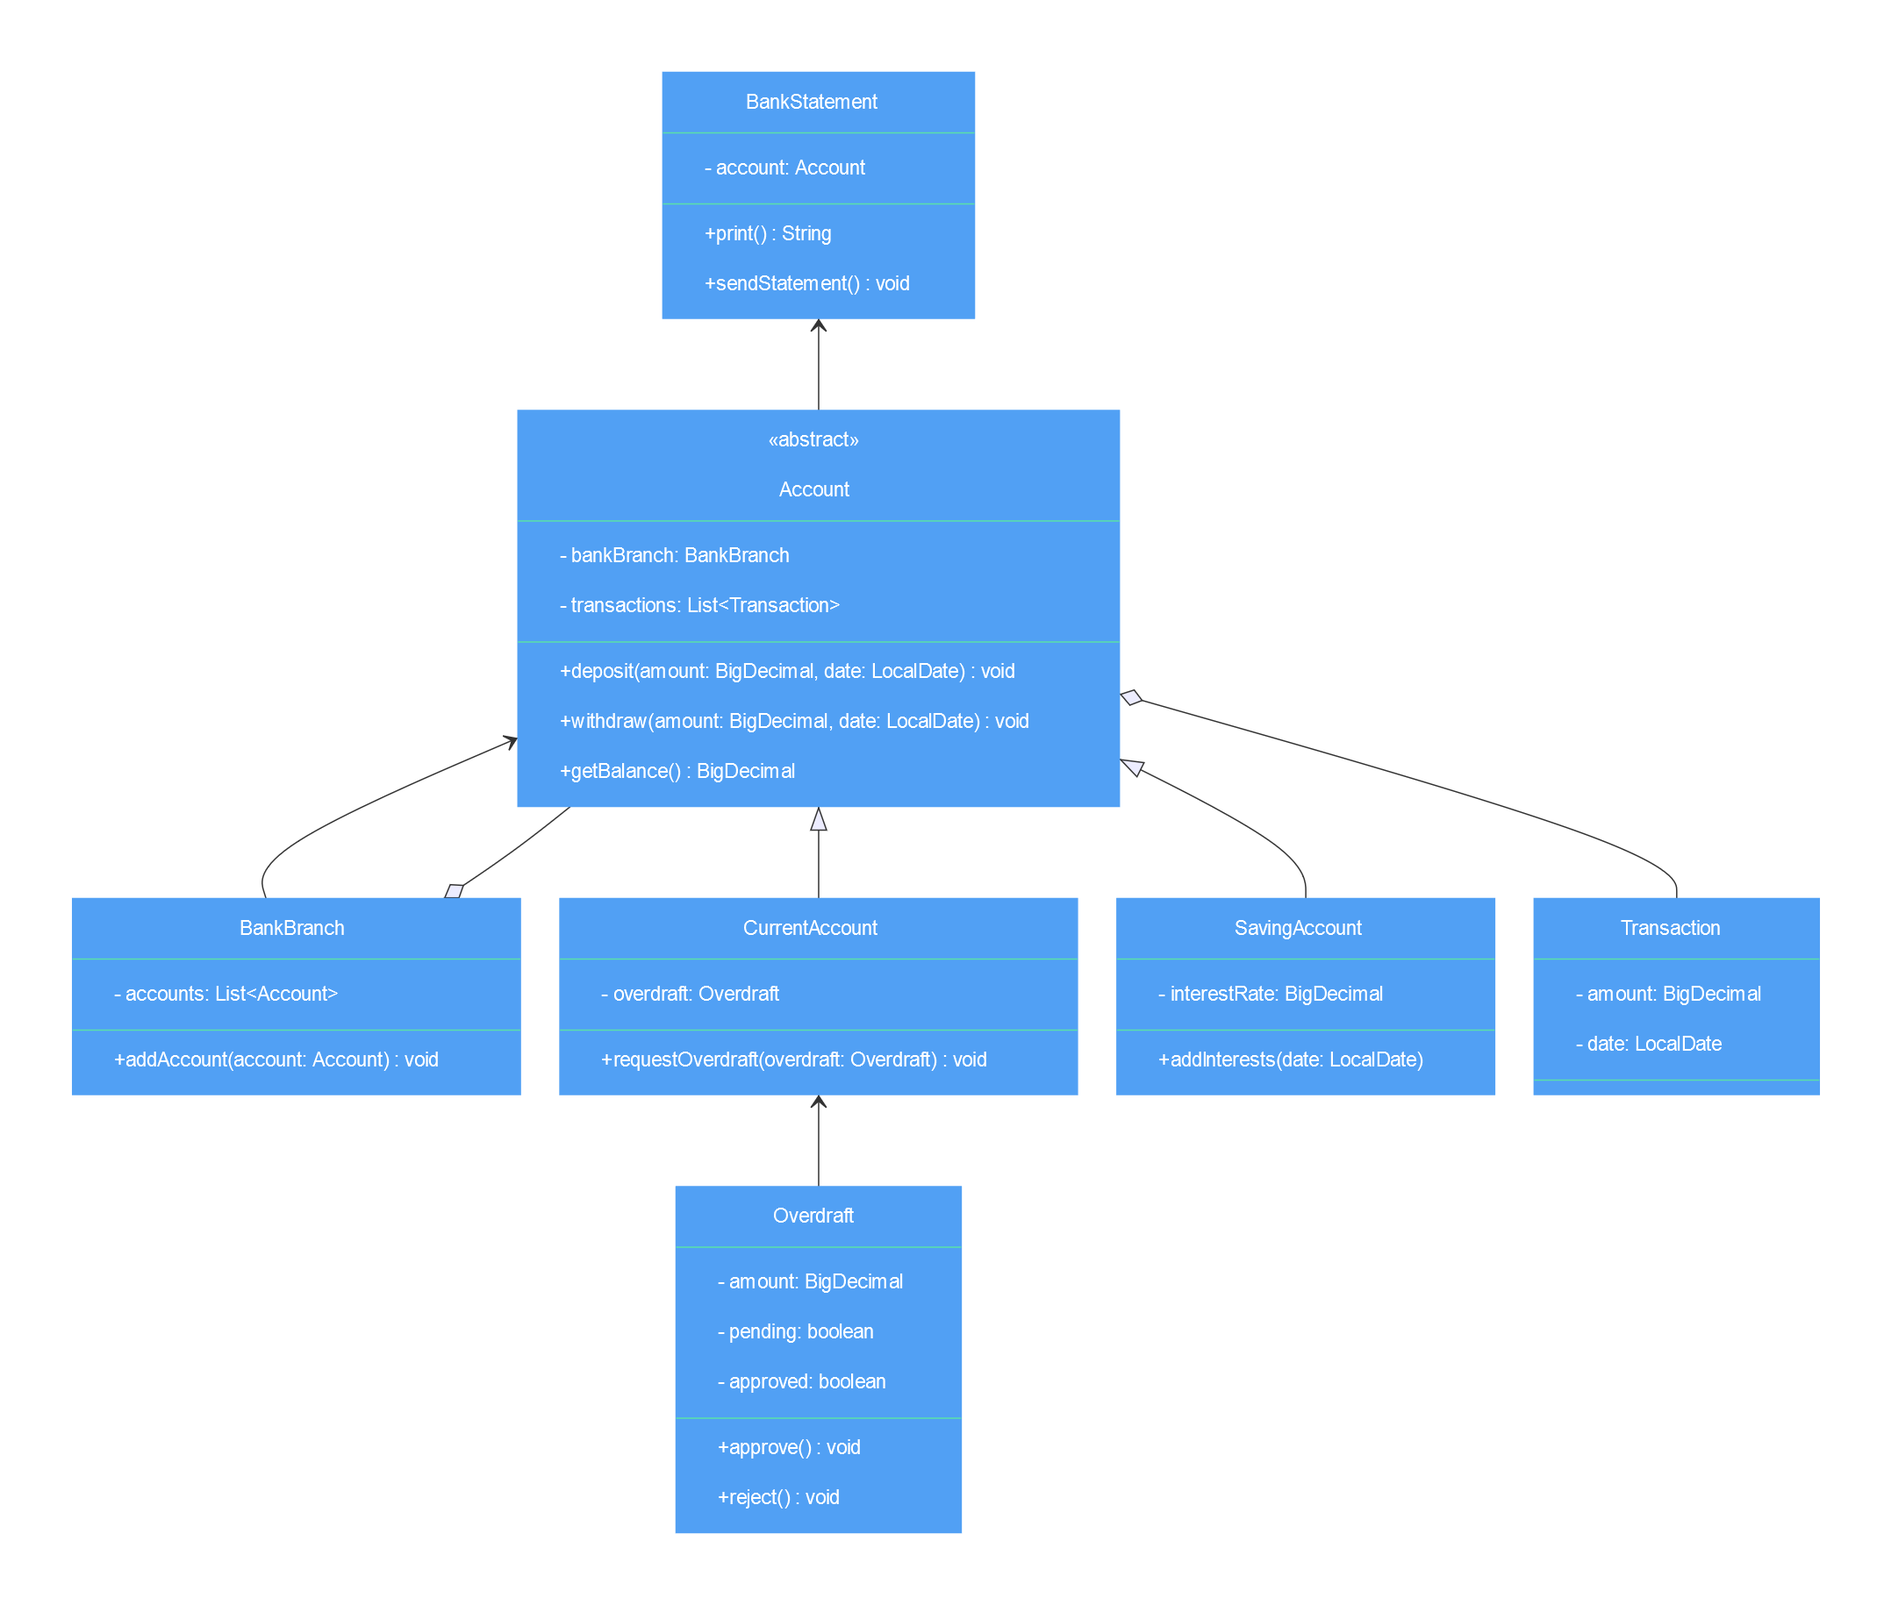
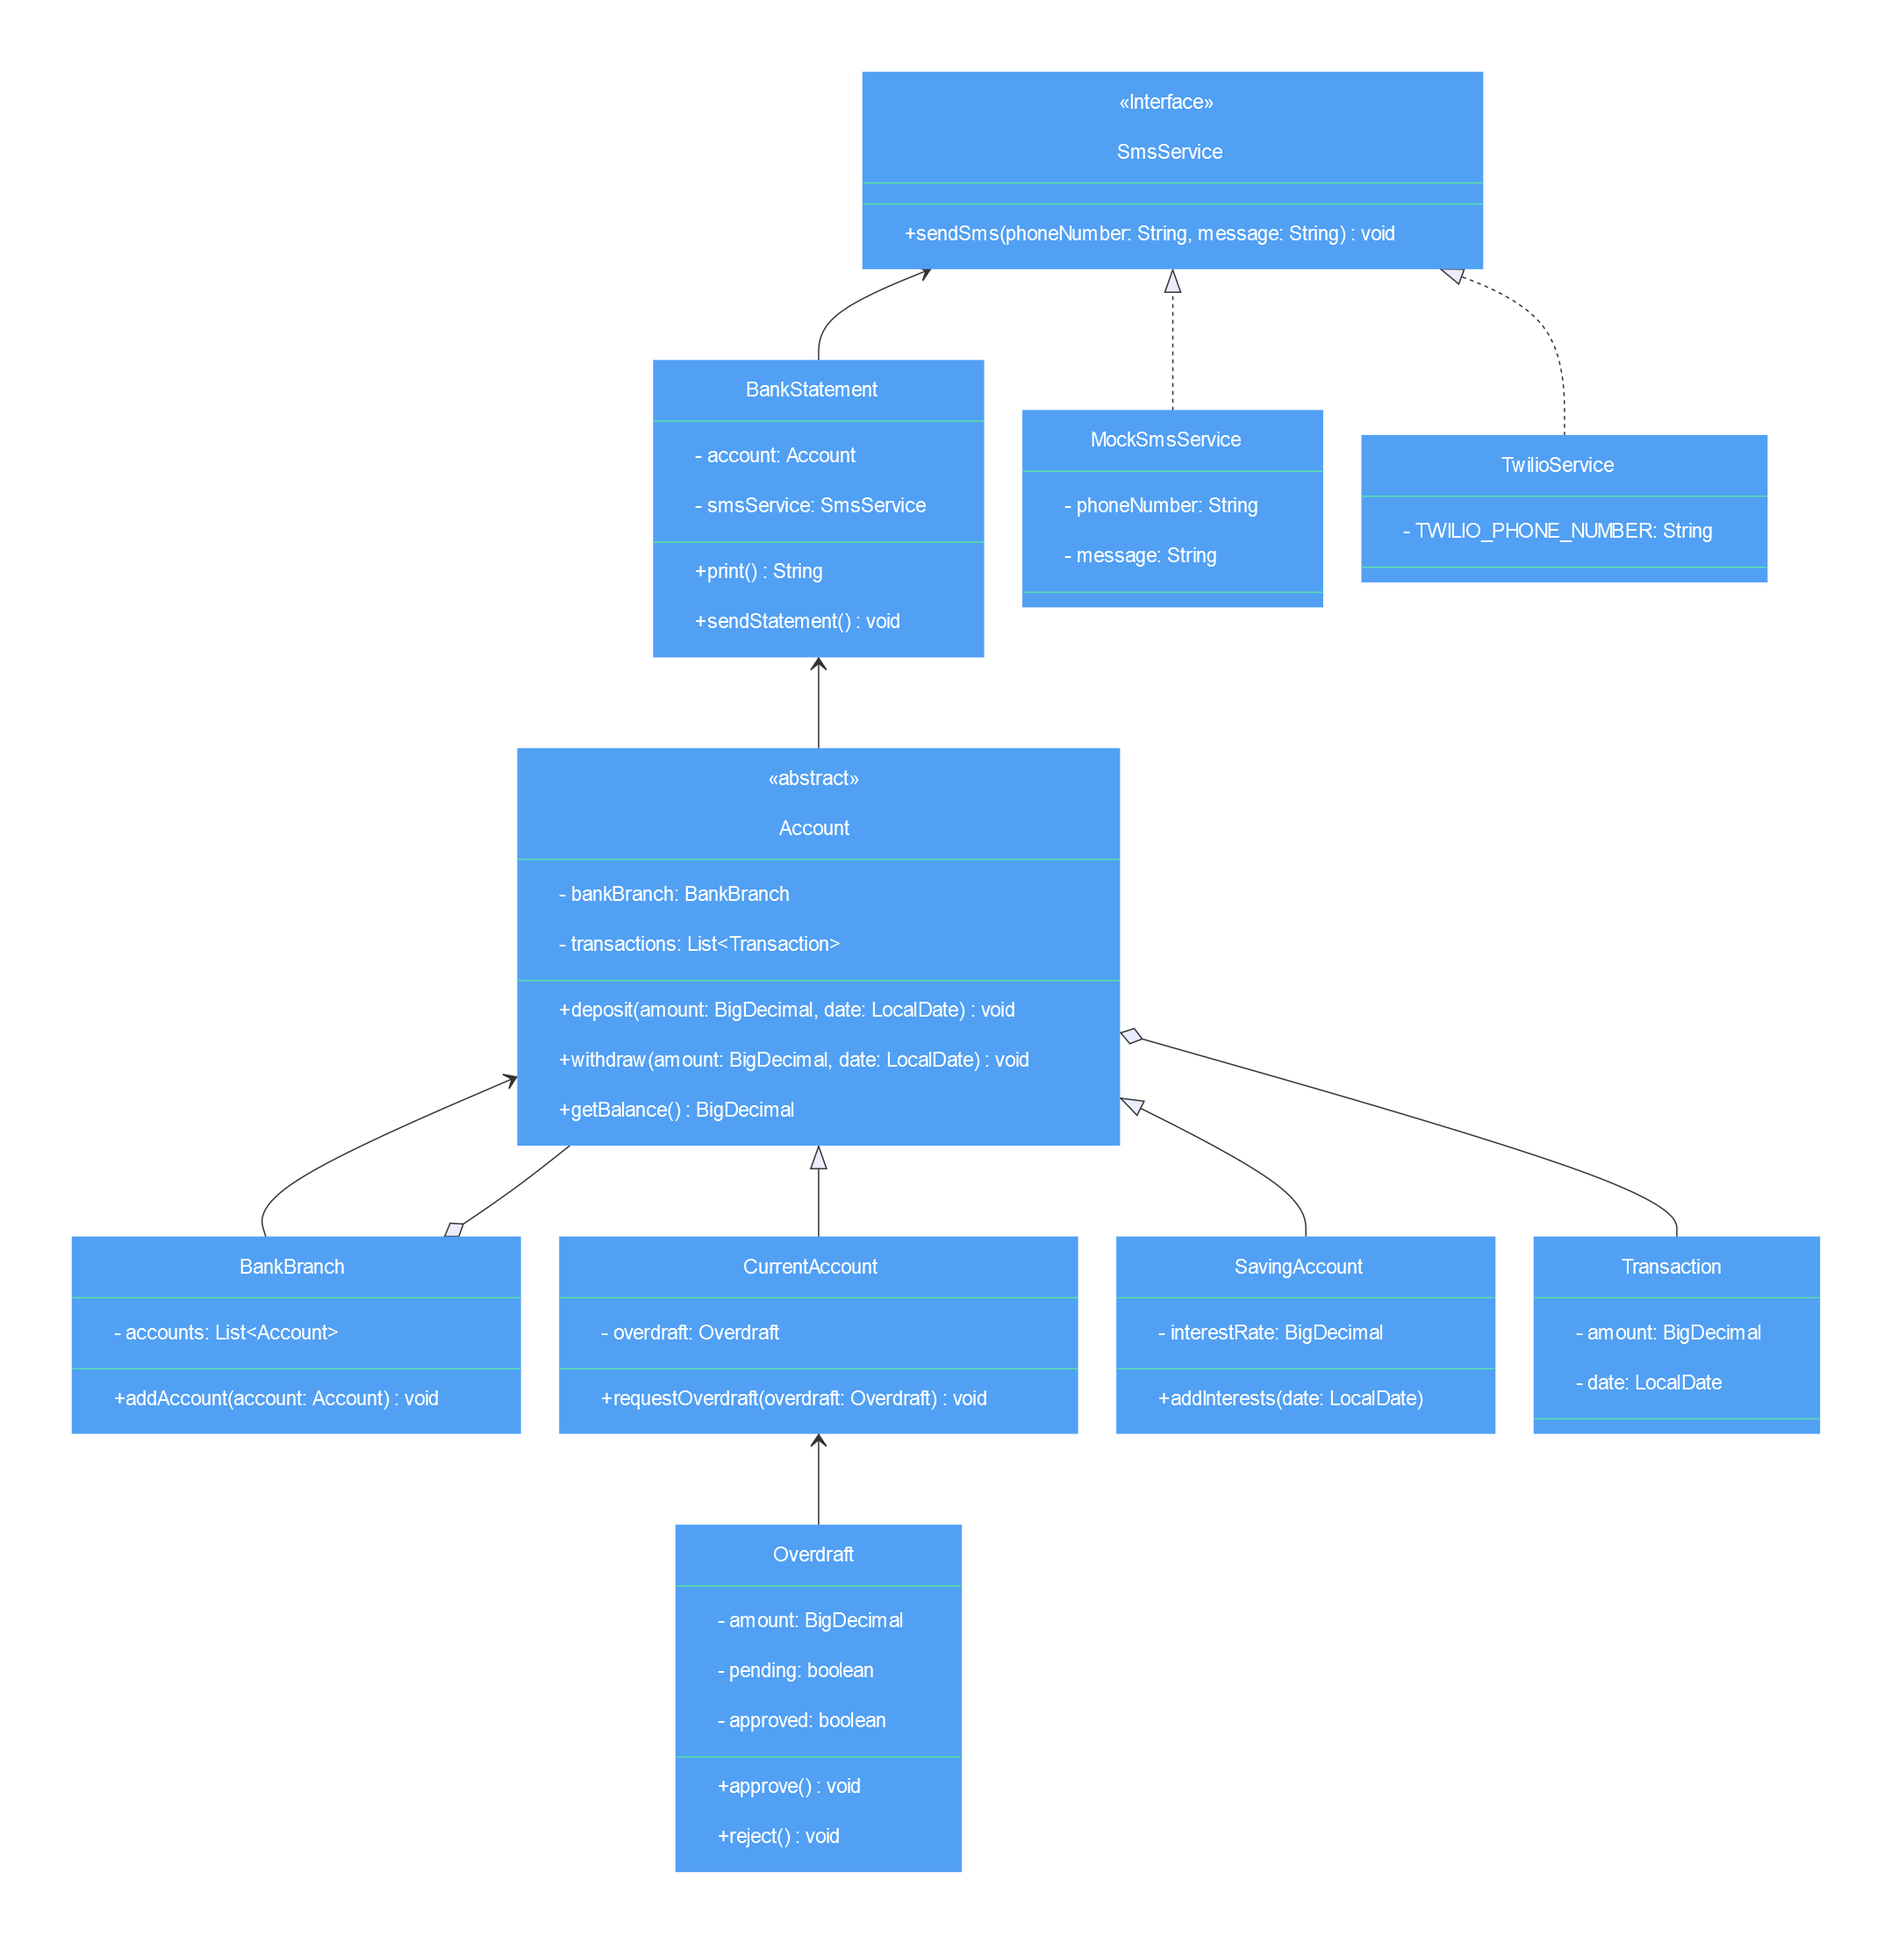
Update domain model and class diagram with SmsService

Changed region(s): [[0.0311, 0.0311, 0.9638, 0.9656]]

diff --git a/domain-model.md b/domain-model.md
@@ -70,16 +70,20 @@ I want statements to be sent as messages to my phone.
 
 ### Domain model (extending core)
 
-| Class                             | Fields                               | Methods                                    | Scenario                                                      | Output             |
-|-----------------------------------|--------------------------------------|--------------------------------------------|---------------------------------------------------------------|--------------------|
-| *Account*                         | BankBranch bankBranch                |                                            | When creating account it needs to have bank branch associated |                    |
-| CurrentAccount extends *Account*  | Overdraft overdraft                  | void requestOverdraft(Overdraft overdraft) | Customer requests overdraft                                   |                    |
-| BankBranch                        | List<Account> accounts               | void addAccount(Account account)           | Add account to the branch when creating                       |                    |
-|                                   |                                      |                                            | If account is not assigned to this branch                     | Throw an exception |
-|                                   |                                      |                                            | If account has been already added to this branch              | Do nothing         |
-| Overdraft                         | boolean pending<br/>boolean approved | void approve()                             | Manager approves overdraft                                    |                    |
-|                                   | boolean pending<br/>boolean approved | void reject()                              | Manager rejects overdraft                                     |                    |
-| BankStatement                     |                                      | void sendStatement(String phoneNumber)     | Customer requests bank statement to be delivered via SMS      |                    |
+| Class                                  | Fields                               | Methods                                          | Scenario                                                          | Output             |
+|----------------------------------------|--------------------------------------|--------------------------------------------------|-------------------------------------------------------------------|--------------------|
+| *Account*                              | BankBranch bankBranch                |                                                  | When creating account it needs to have bank branch associated     |                    |
+| CurrentAccount extends *Account*       | Overdraft overdraft                  | void requestOverdraft(Overdraft overdraft)       | Customer requests overdraft                                       |                    |
+| BankBranch                             | List<Account> accounts               | void addAccount(Account account)                 | Add account to the branch when creating                           |                    |
+|                                        |                                      |                                                  | If account is not assigned to this branch                         | Throw an exception |
+|                                        |                                      |                                                  | If account has been already added to this branch                  | Do nothing         |
+| Overdraft                              | boolean pending<br/>boolean approved | void approve()                                   | Manager approves overdraft                                        |                    |
+|                                        | boolean pending<br/>boolean approved | void reject()                                    | Manager rejects overdraft                                         |                    |
+| BankStatement                          | SmsService smsService                | void sendStatement(String phoneNumber)           | Customer requests bank statement to be delivered via SMS          |                    |
+| *SmsService*                           |                                      | void sendSms(String phoneNumber, String message) | Sends an SMS                                                      |                    |
+|                                        |                                      |                                                  | If SMS cannot be sent                                             | Throw an exception |
+| TwilioService implements *SmsService*  |                                      |                                                  | Uses Twilio as SMS backend                                        |                    |
+| MockSmsService implements *SmsService* |                                      |                                                  | Mocks sending SMS by outputting them to stdout (used for testing) |                    |
 
 ### Class diagram
 ![](class-diagram-extension.png)
